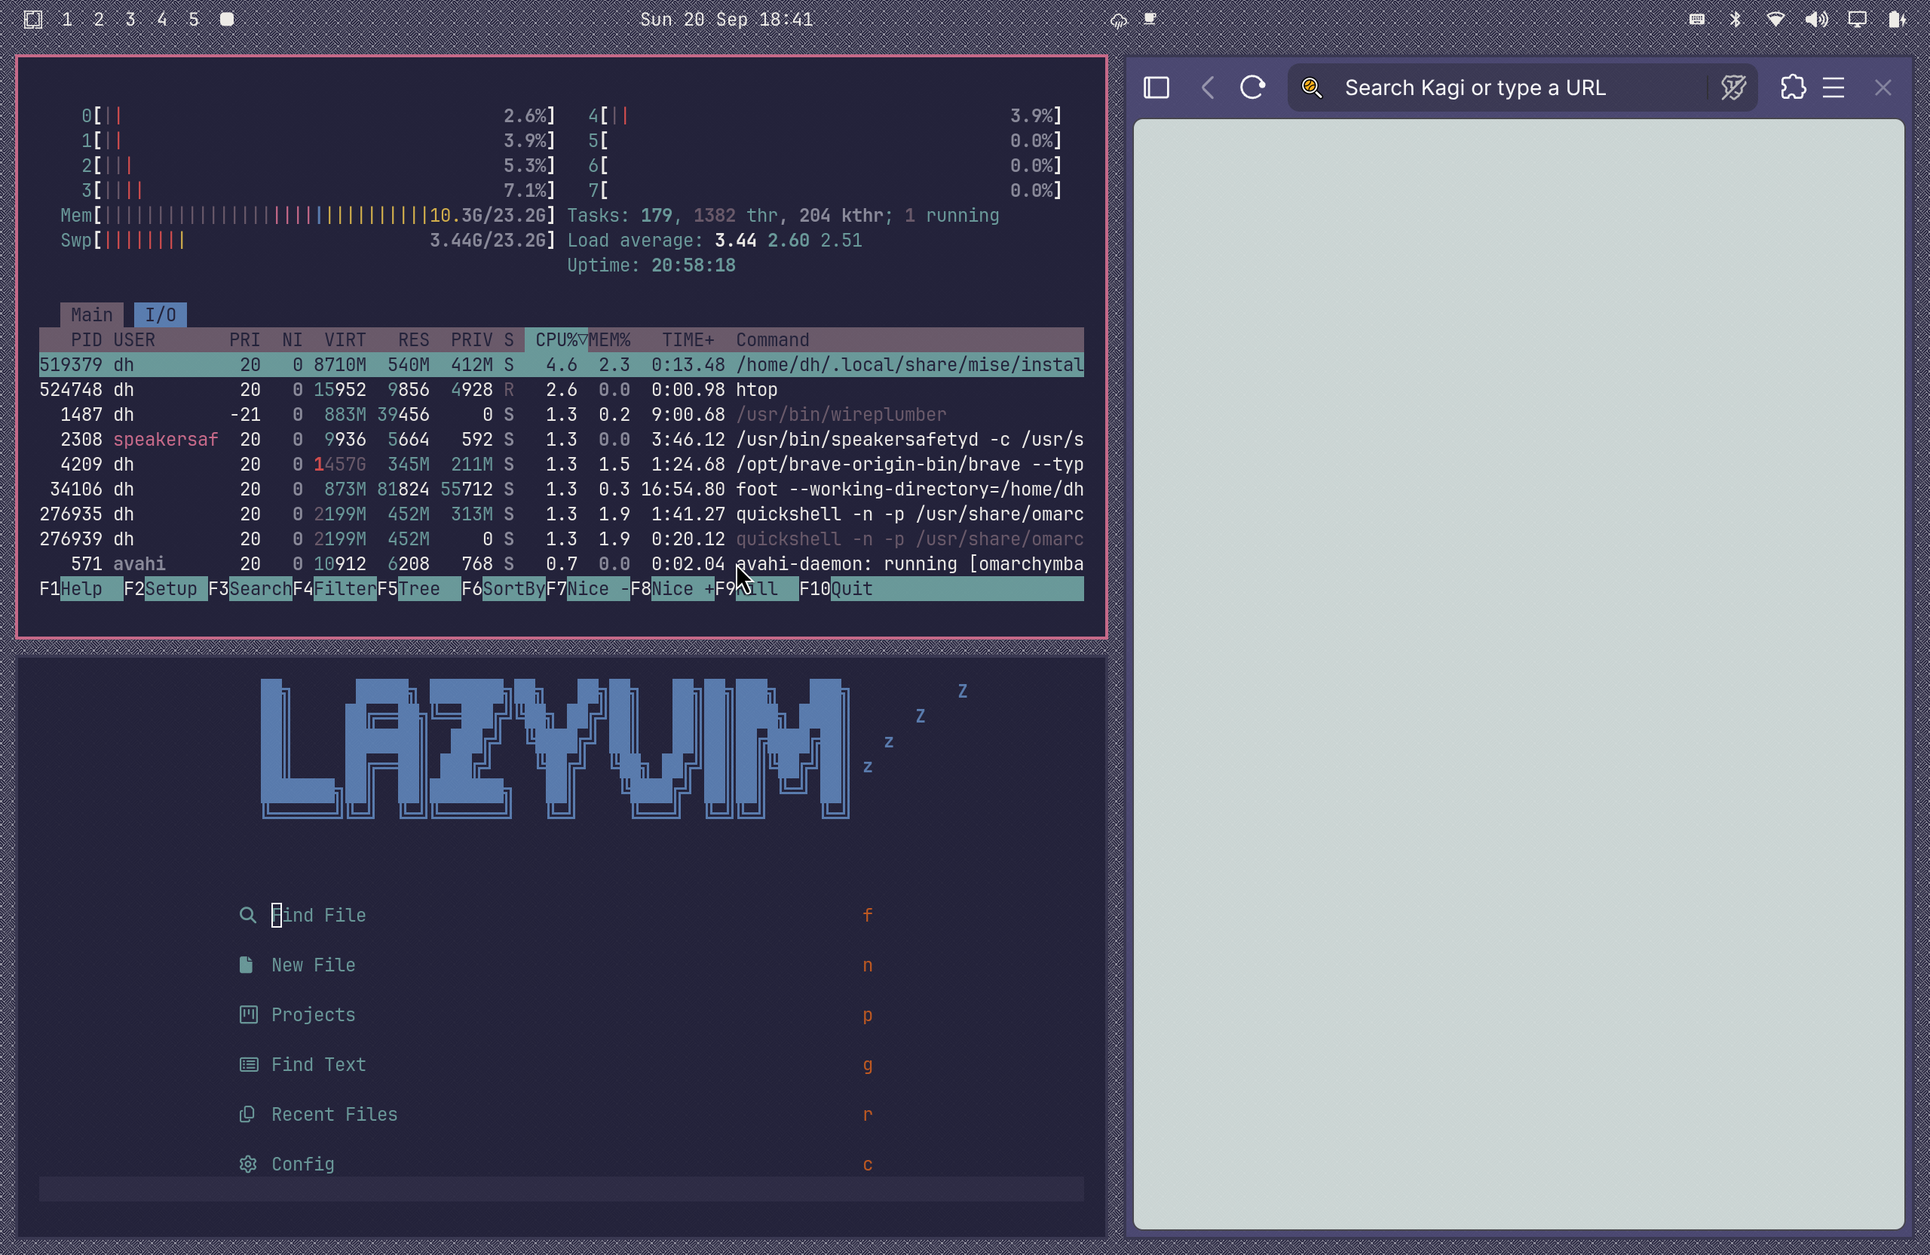
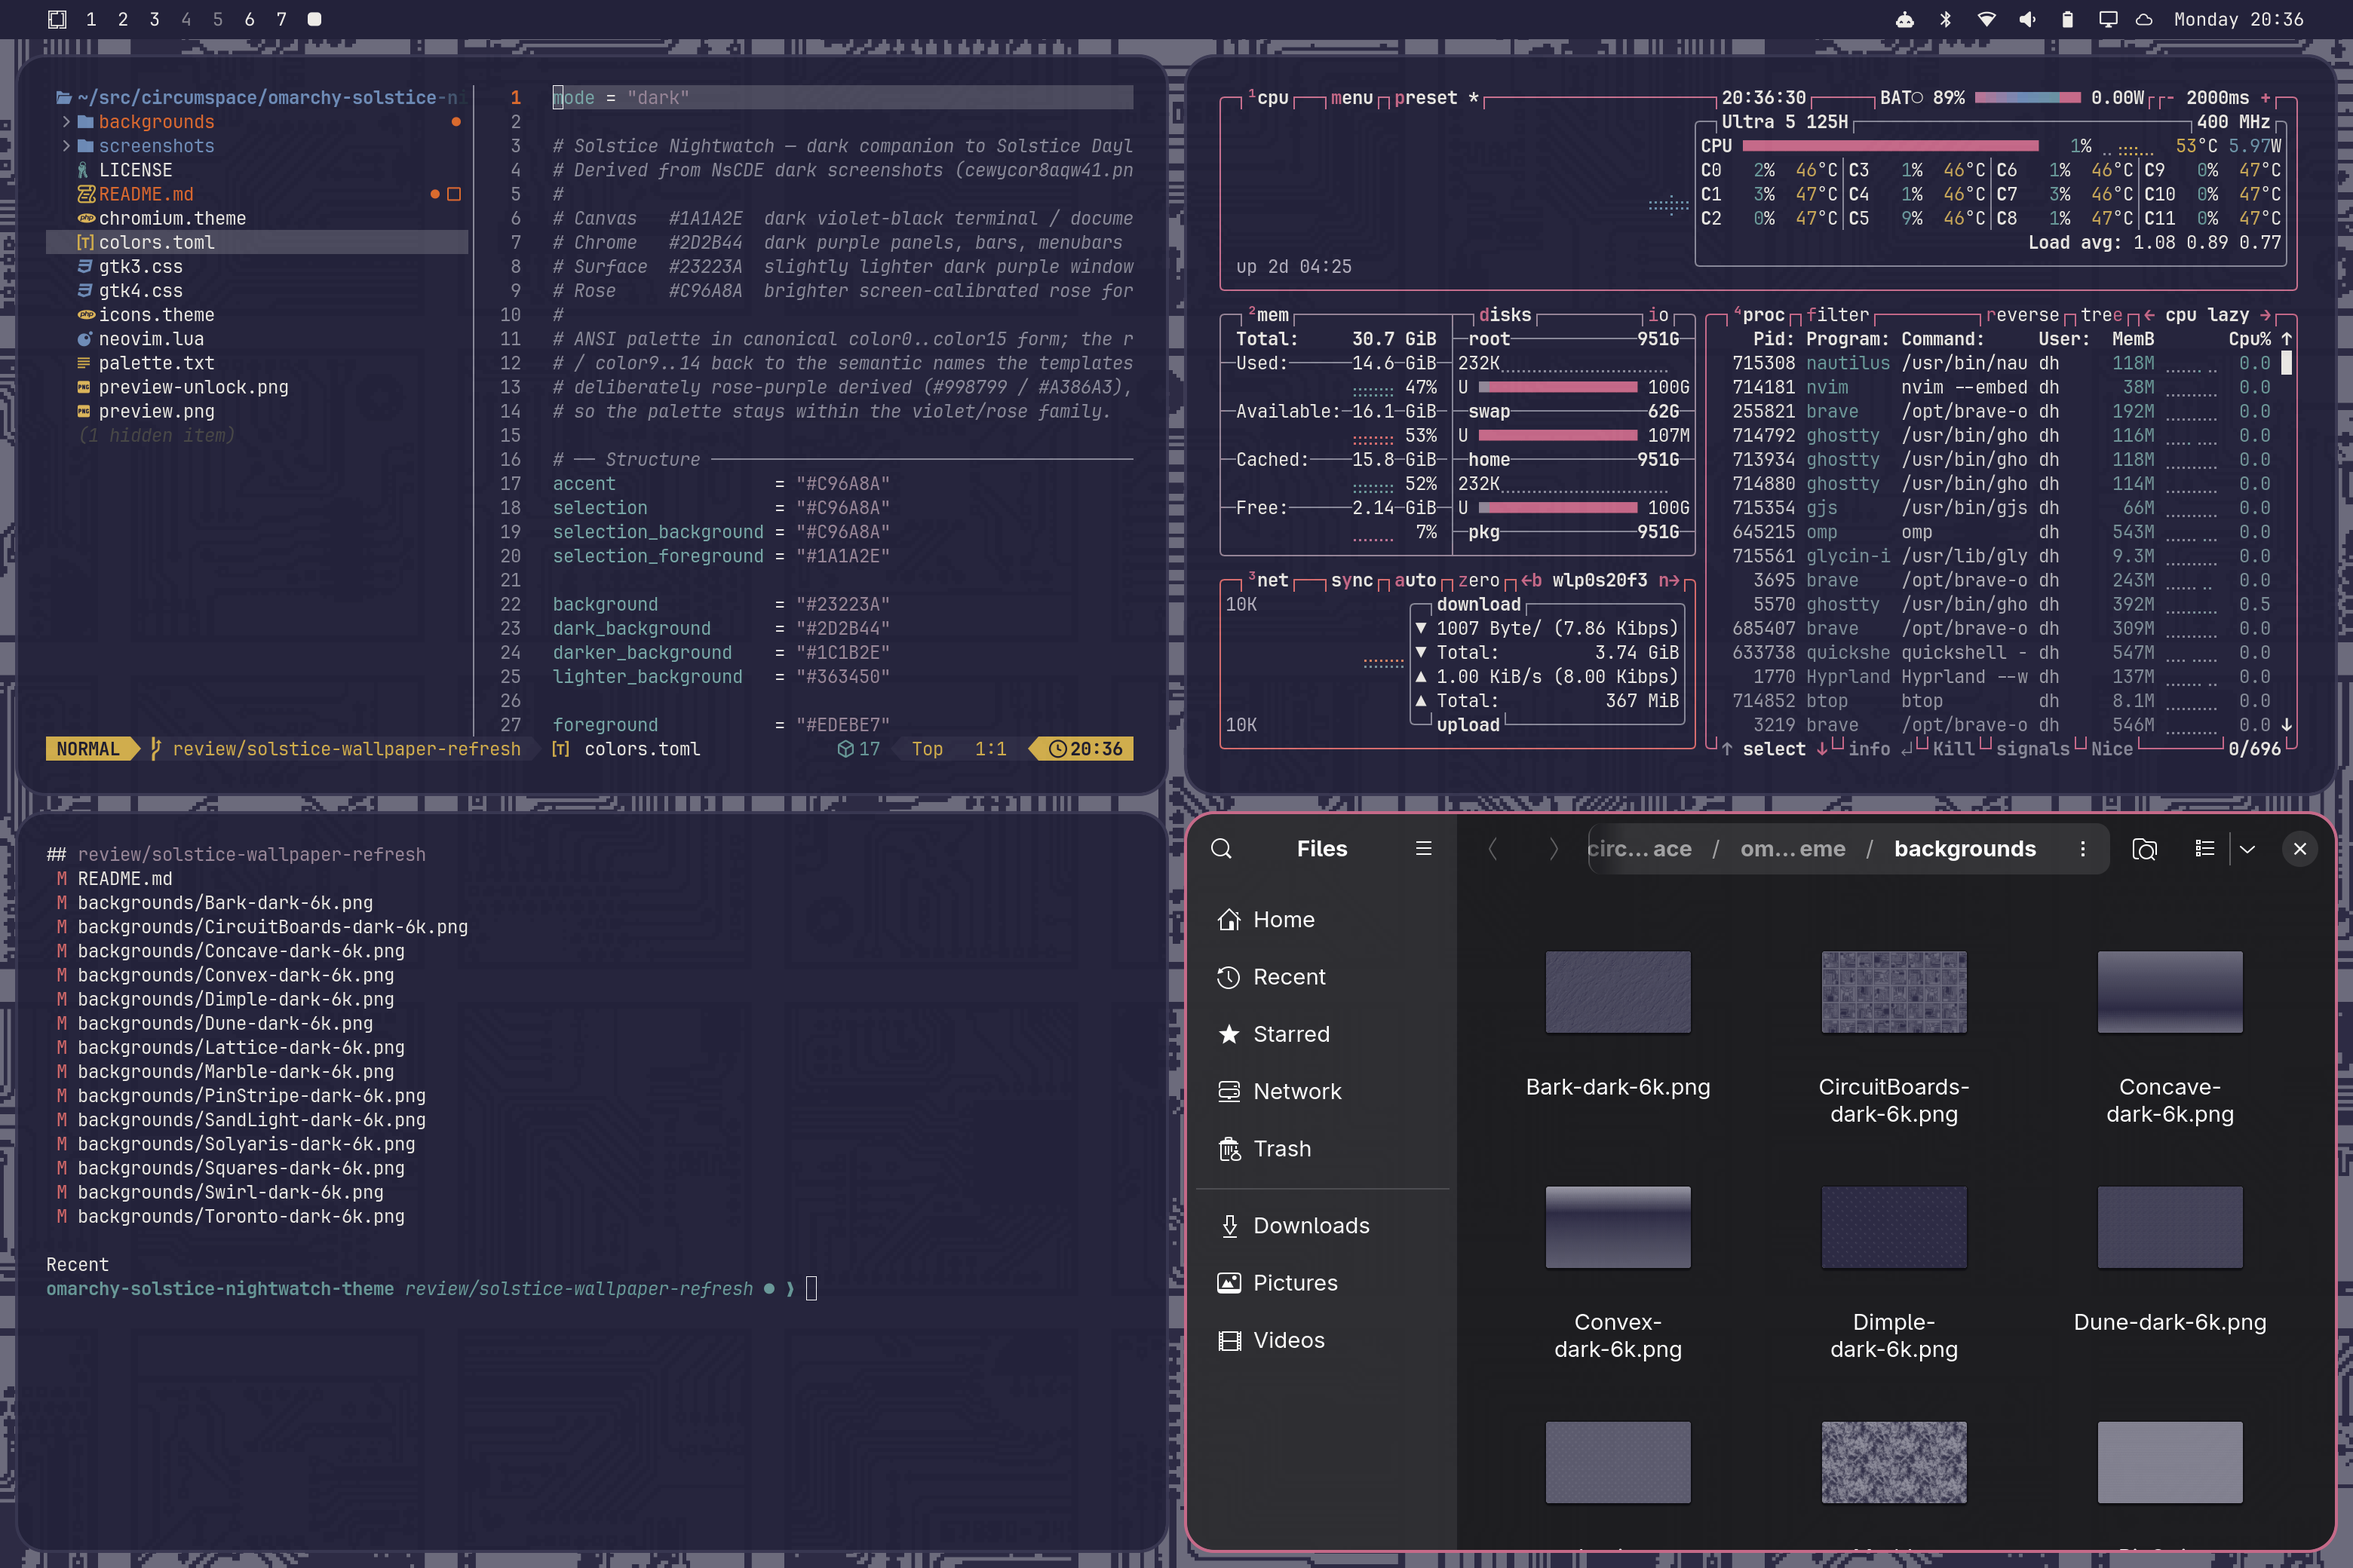
Refresh Solstice Nightwatch showcase and wallpapers

diff --git a/README.md b/README.md
@@ -53,9 +53,12 @@ Full 16-color ANSI palette in [`palette.txt`](palette.txt).
 
 ## Wallpapers
 
-Five procedurally-generated backdrops in `backgrounds/` (6K), rendered from
-[NsCDE](https://github.com/NsCDE/NsCDE) XPM tile patterns recolored to this
-palette: **Solyaris, Dimple, Dune, Swirl, Squares**.
+Fourteen procedurally-generated backdrops in `backgrounds/` (6K), rendered at
+an 8× tile scale from [NsCDE](https://github.com/NsCDE/NsCDE) XPM patterns and
+recolored to this palette: **Solyaris, Dimple, Dune, Swirl, Squares, Marble,
+Toronto, SandLight, CircuitBoards, Lattice, Concave, Convex, PinStripe, Bark**.
+Regenerate them with
+[circumspace/scripts `gen-cde-wallpapers`](https://github.com/circumspace/scripts).
 
 ## Provenance & credits
 
